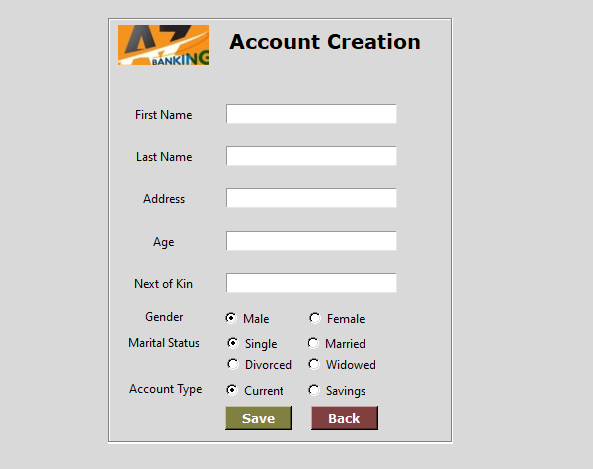
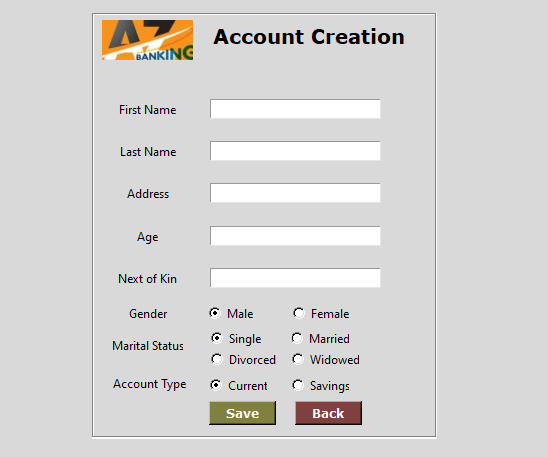
added type of account radio buttons

diff --git a/Bank_App_updated.py b/Bank_App_updated.py
@@ -1166,7 +1166,7 @@ The bank will not be held liable for whatsoever issues that might occur as a res
         self.Next_kin_entry.configure(selectforeground="white")
 
         self.Gender = tk.Label(self.Account_creation)
-        self.Gender.place(relx=0.055, rely=0.68, height=21, width=70)
+        self.Gender.place(relx=0.055, rely=0.683, height=21, width=70)
         self.Gender.configure(activebackground="#f9f9f9")
         self.Gender.configure(activeforeground="black")
         self.Gender.configure(background="#d9d9d9")
@@ -1206,7 +1206,7 @@ The bank will not be held liable for whatsoever issues that might occur as a res
         self.Female.configure(variable=self.var, value="female")
 
         self.Marital_Status = tk.Label(self.Account_creation)
-        self.Marital_Status.place(relx=0.055, rely=0.74, height=21, width=70)
+        self.Marital_Status.place(relx=0.055, rely=0.76, height=21, width=70)
         self.Marital_Status.configure(background="#d9d9d9")
         self.Marital_Status.configure(disabledforeground="#a3a3a3")
         self.Marital_Status.configure(foreground="#000000")
@@ -3191,7 +3191,7 @@ The bank will not be held liable for whatsoever issues that might occur as a res
         self.back_update_pin_1.configure(highlightcolor="black")
         self.back_update_pin_1.configure(pady="0")
         self.back_update_pin_1.configure(text='''Back''')
-        self.show_frame(self.Welcome_Page)
+        self.show_frame(self.Account_creation)
 
     # ----------------------RAISE FRAME METHOD-------------------------------#
     def show_frame(self, content):
